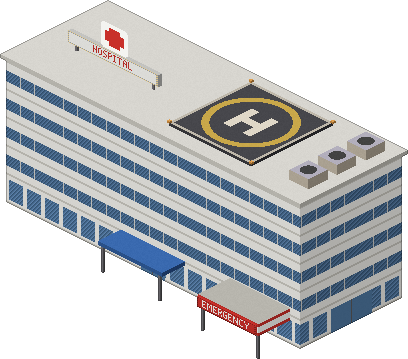
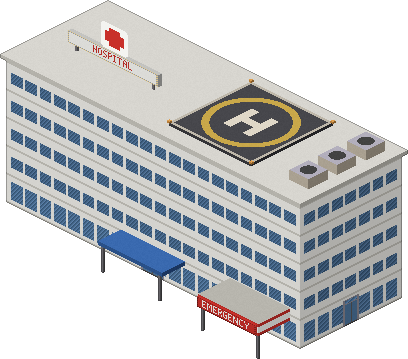
Hospital: whole window bays and framed doors
Windows ran on a fixed 16 px grid from the corner, so each wall ended in
a sliver of glass; they are now whole bays fitted between solid corner
piers, the glazed ground floor too. The doors were flat blue slabs (the
side one 40% of the wall): now framed double glass doors with a centre
mullion, a transom and a threshold, 22 px on the front, 14 on the side.

diff --git a/tools/art.py b/tools/art.py
@@ -3951,23 +3951,38 @@ def hospital(seed):
     x0, y0 = -a / 2, -b / 2
     rng = np.random.default_rng(seed)
 
-    def wall(length_px, doors):
+    def wall(length_px, door_w):
+        """Whole window bays between solid corner piers; on the ground floor
+        glazing in the same bays and a framed double glass door (door_w px
+        wide) in the middle, with a transom and a frame."""
+        pier = 4
+        n = max(1, round((length_px - 2 * pier) / 16))
+        bay = (length_px - 2 * pier) / n
         def sh(a_, b_, xs, ys):
             along, z = a_ * length_px, b_ * h
             out = np.repeat(rgb("#ecebe6")[None], len(a_), 0)
-            win = (np.mod(z, fh) > 9) & (np.mod(z, fh) < 20) & (z > fh)
-            out = np.where(win[:, None], np.array(GLASS_BLUE)[(xs + ys) % 4] * 1.15, out)
-            out = np.where((win & (np.mod(along, 16) < 1))[:, None], rgb("#d0cec8"), out)
+            k = np.floor((along - pier) / bay)
+            inb = along - pier - k * bay                                   # position inside its bay
+            bays = (along > pier) & (along < length_px - pier) & (inb > 2) & (inb < bay - 1)
+            glass = np.array(GLASS_BLUE)[(xs + ys) % 4] * 1.15
+            win = bays & (np.mod(z, fh) > 9) & (np.mod(z, fh) < 20) & (z > fh)
+            out = np.where(win[:, None], glass, out)
             out = np.where((np.mod(z, fh) < 2)[:, None], rgb("#c8c6be"), out)            # floor bands
-            out = np.where((z < fh)[:, None] & (np.mod(along, 20) > 4)[:, None] & (z > 4)[:, None] & (z < fh - 4)[:, None],
-                           np.array(GLASS_BLUE)[(xs + ys) % 4] * 1.25, out)             # glazed ground floor
-            for d0, d1 in doors:
-                dd = (along >= d0 * length_px) & (along < d1 * length_px) & (z < fh - 4)
-                out = np.where(dd[:, None], np.array(GLASS_BLUE)[1] * 1.35, out)
-                out = np.where((dd & (np.abs(along - (d0 + d1) / 2 * length_px) < 0.6))[:, None], rgb("#5b5a5c"), out)
+            ground = bays & (z > 5) & (z < fh - 5)
+            out = np.where(ground[:, None], glass * 1.08, out)                            # glazed ground floor
+            if door_w:
+                mid = length_px / 2
+                dz = (np.abs(along - mid) < door_w / 2 + 2) & (z < fh - 2)
+                out = np.where(dz[:, None], rgb("#8e8a94"), out)                          # frame
+                leaf = (np.abs(along - mid) < door_w / 2) & (z < fh - 7)
+                out = np.where(leaf[:, None], np.array(GLASS_BLUE)[1] * 1.35, out)       # the two glass leaves
+                out = np.where((leaf & (np.abs(along - mid) < 0.6))[:, None], rgb("#5b5a5c"), out)
+                transom = (np.abs(along - mid) < door_w / 2) & (z >= fh - 6) & (z < fh - 3)
+                out = np.where(transom[:, None], glass * 1.2, out)
+                out = np.where((leaf & (z < 1.5))[:, None], rgb("#5b5a5c"), out)          # threshold
             return out + (s.grain[ys, xs] - 0.5)[:, None] * 3
         return sh
-    s.box(x0, y0, 0, a, b, h, flat(s, "#d8d6d0"), wall(a * 71.6, [(0.46, 0.54)]), wall(b * 71.6, [(0.3, 0.7)]))
+    s.box(x0, y0, 0, a, b, h, flat(s, "#d8d6d0"), wall(a * 71.6, 22), wall(b * 71.6, 14))
     s.box(x0 - 0.04, y0 - 0.04, h, a + 0.08, b + 0.08, 4, *(flat(s, c) for c in ("#d8d6d0", "#c8c6be", "#b8b6ae")))
     draw_helipad(s, x0 + a * 0.48, y0, a * 0.36, b, h + 4)          # the helipad
     for k in range(3):                                            # plant at the far end of the roof
